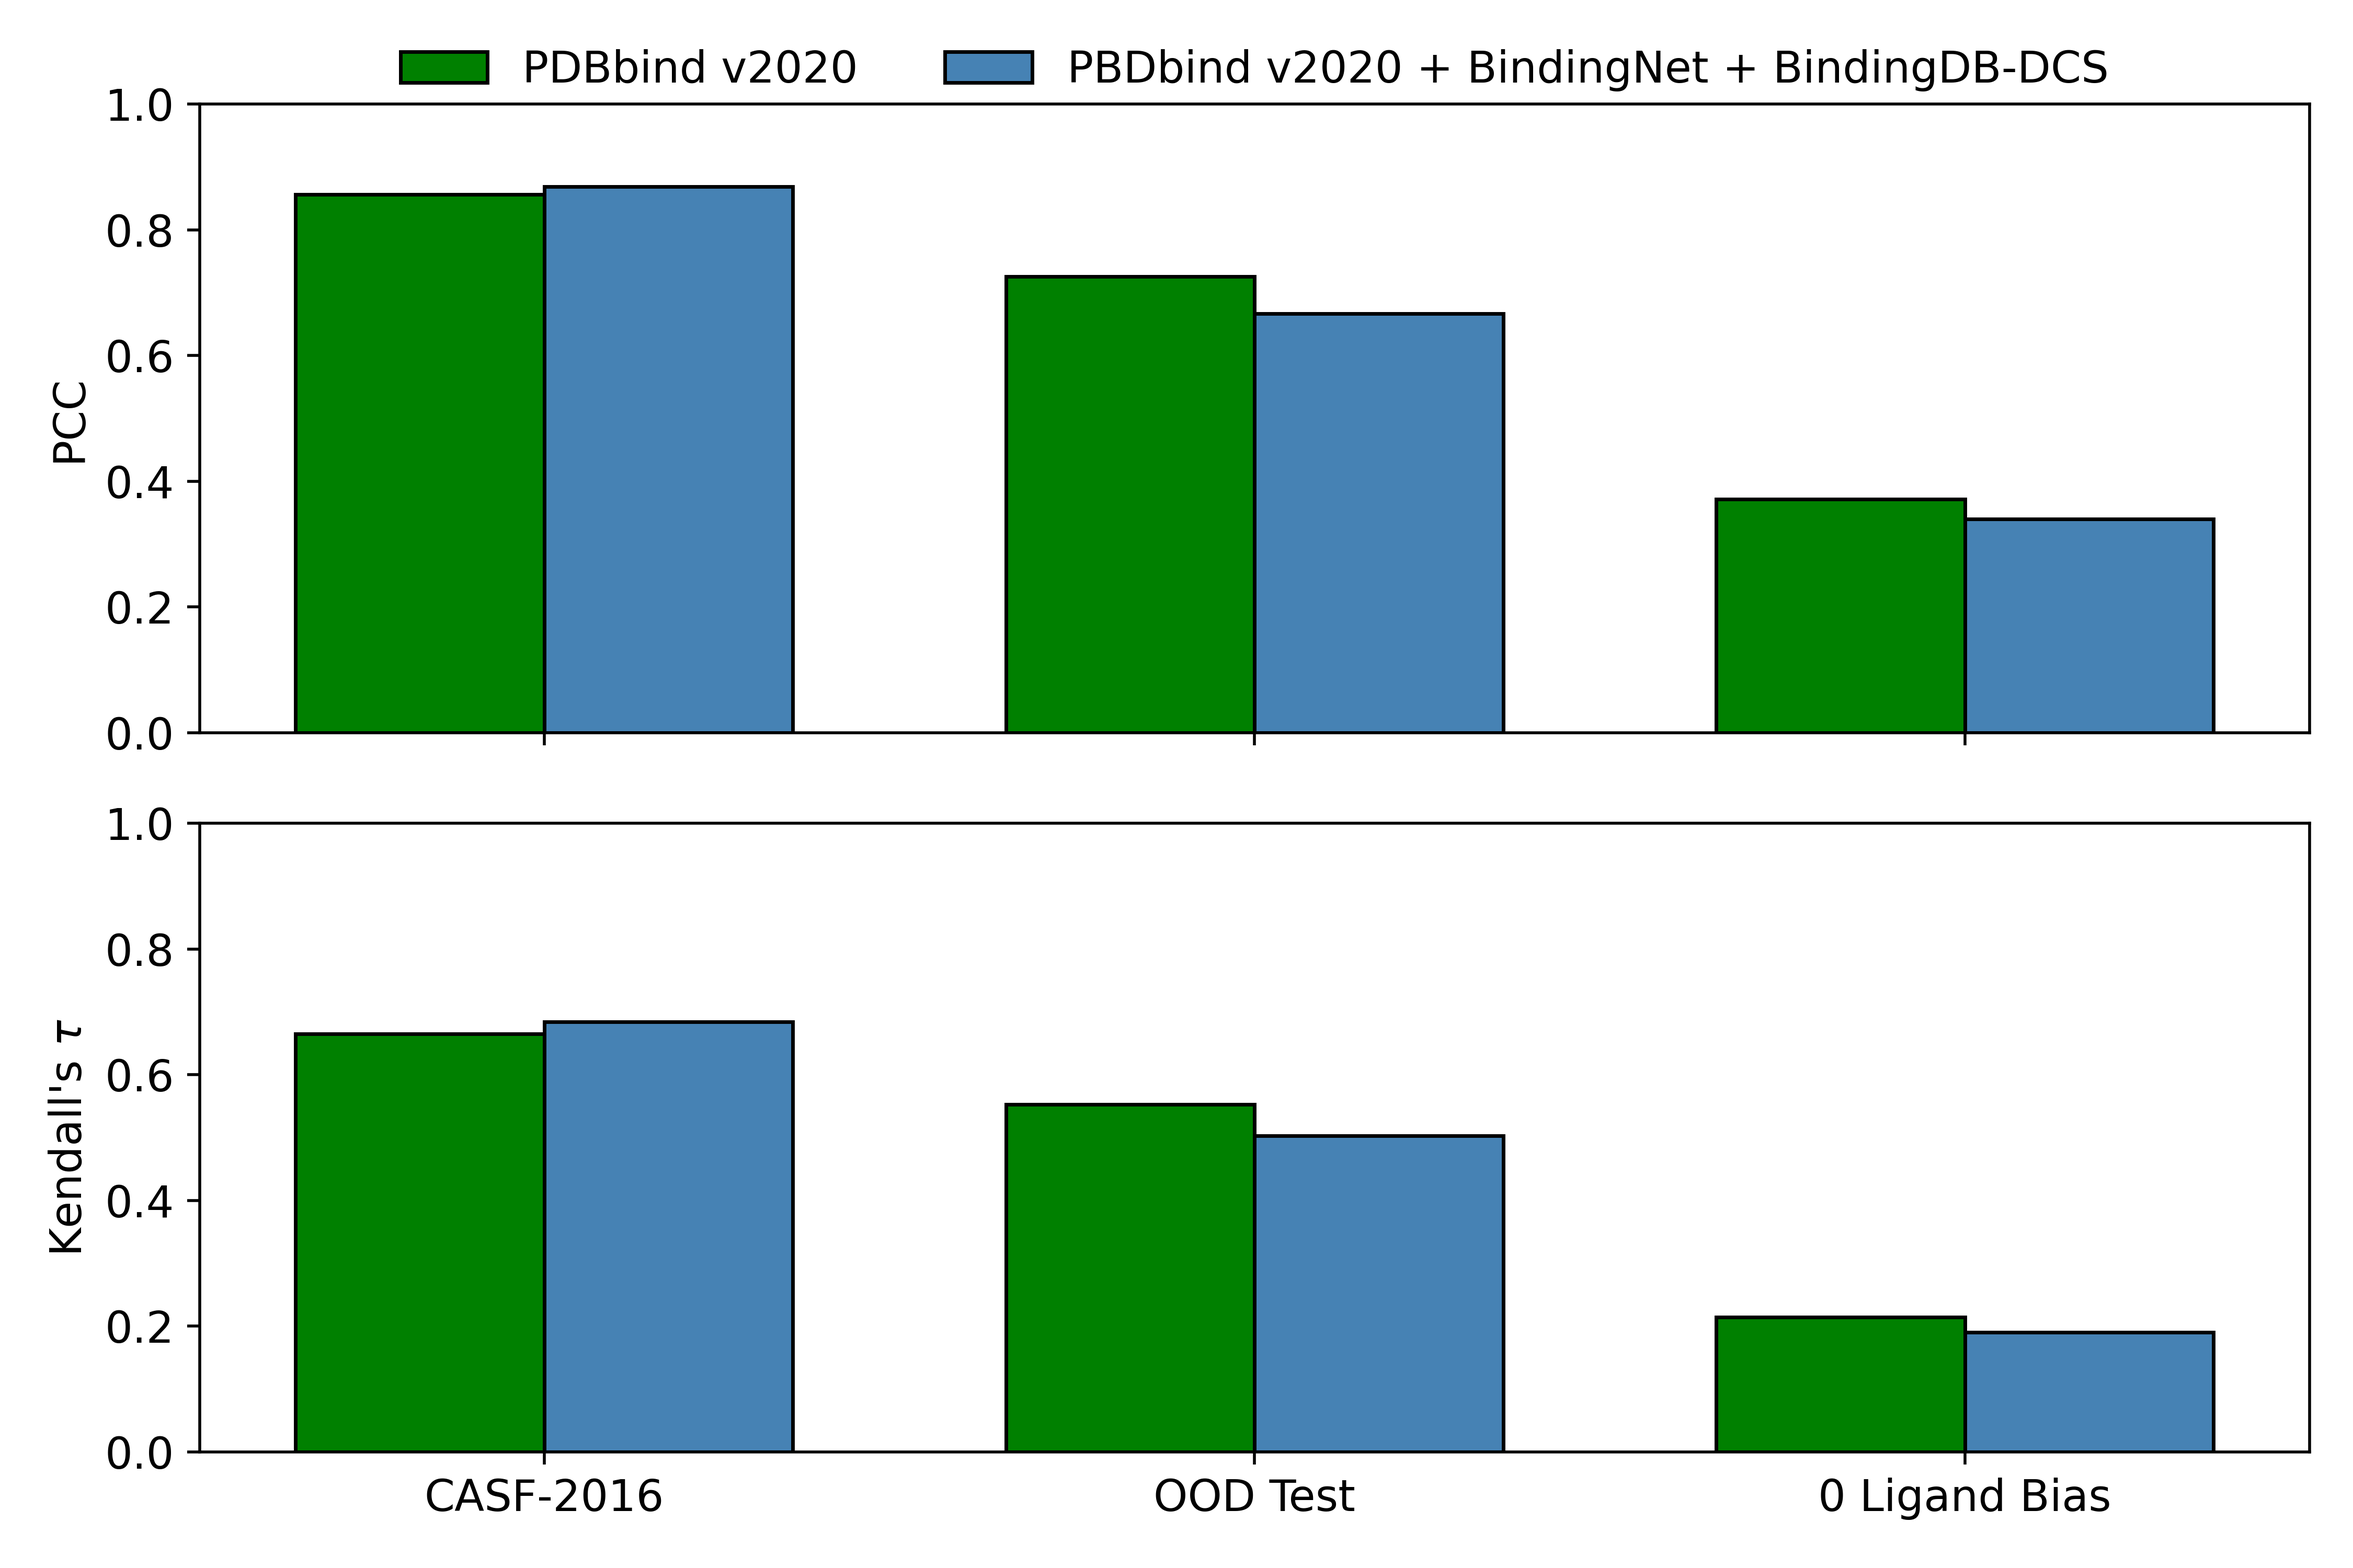
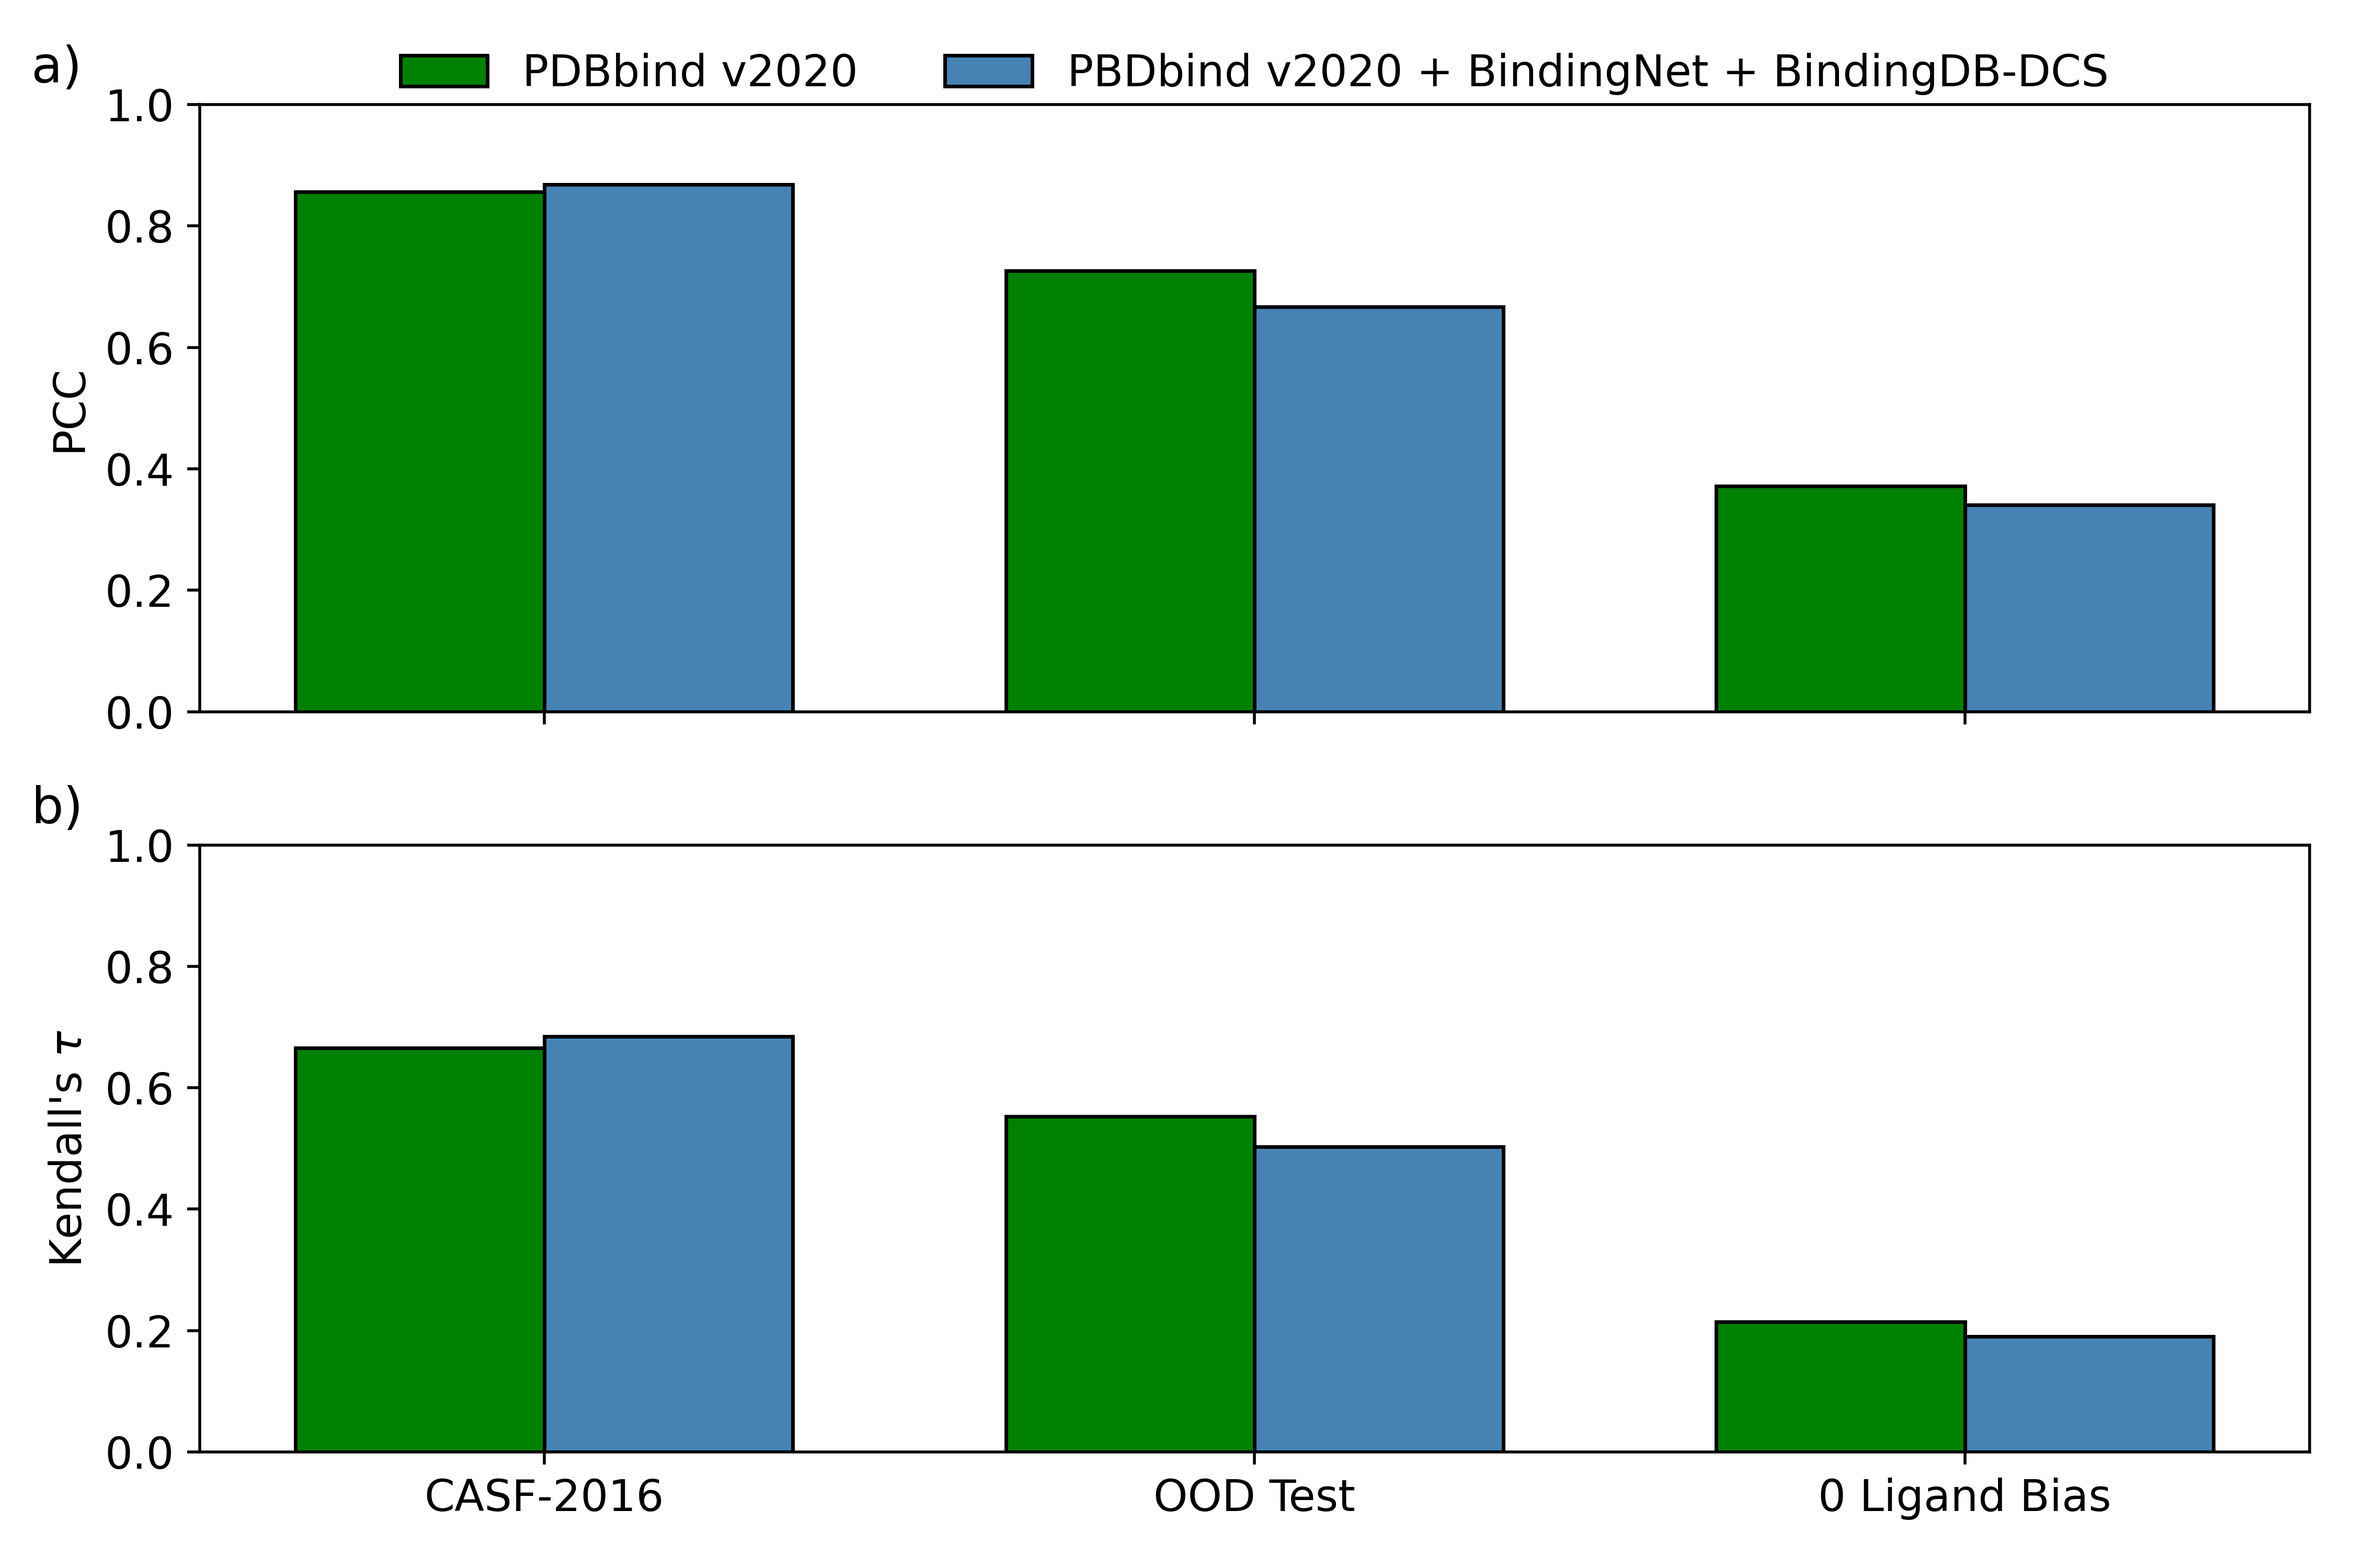
add figure titles a) and b)

diff --git a/manuscript_figures.py b/manuscript_figures.py
@@ -750,6 +750,9 @@ def plot_bars(df_baseline, df_augmented, column1="pcc", column2="ktau", xlabel='
     ax2.set_xticklabels(labels)
     ax1.legend(ncol=2, frameon=False, loc='upper center', bbox_to_anchor=(0.5, 1.15))
 
+    ax1.set_title("a)", loc="left", fontsize=14, position=(-0.08, 1))
+    ax2.set_title("b)", loc="left", fontsize=14, position=(-0.08, 1))
+
     if outpath:
         plt.tight_layout(pad=1)
         plt.savefig(outpath, dpi=500)
